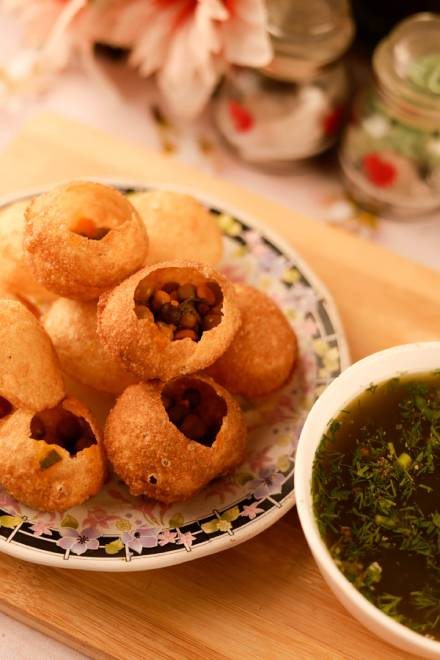
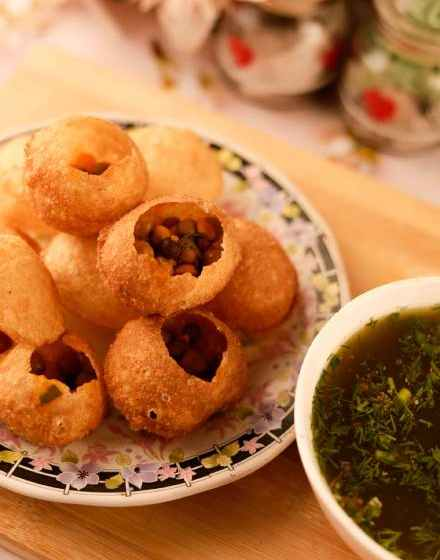
gallery update

diff --git a/index.html b/index.html
@@ -217,14 +217,14 @@
                                 <a href="#" class="item-hover">
                                     <div class="item-info">
                                         <div class="headline">
-                                          CHICKEN. ROLL
+                                          PANI PURI(GOL GAPPE)
                                             <div class="line"></div>
                                             <div class="dit-line">Food Description will update soon more description here</div>
                                         </div>
                                     </div>
                                 </a>
                                 <div class="item-img">
-                                    <img src="images/special-menu-2.jpg" alt="sp-menu">
+                                    <img src="images/special-menu-5.jpg" alt="sp-menu">
                                 </div>
                             </div>
                         </div>
